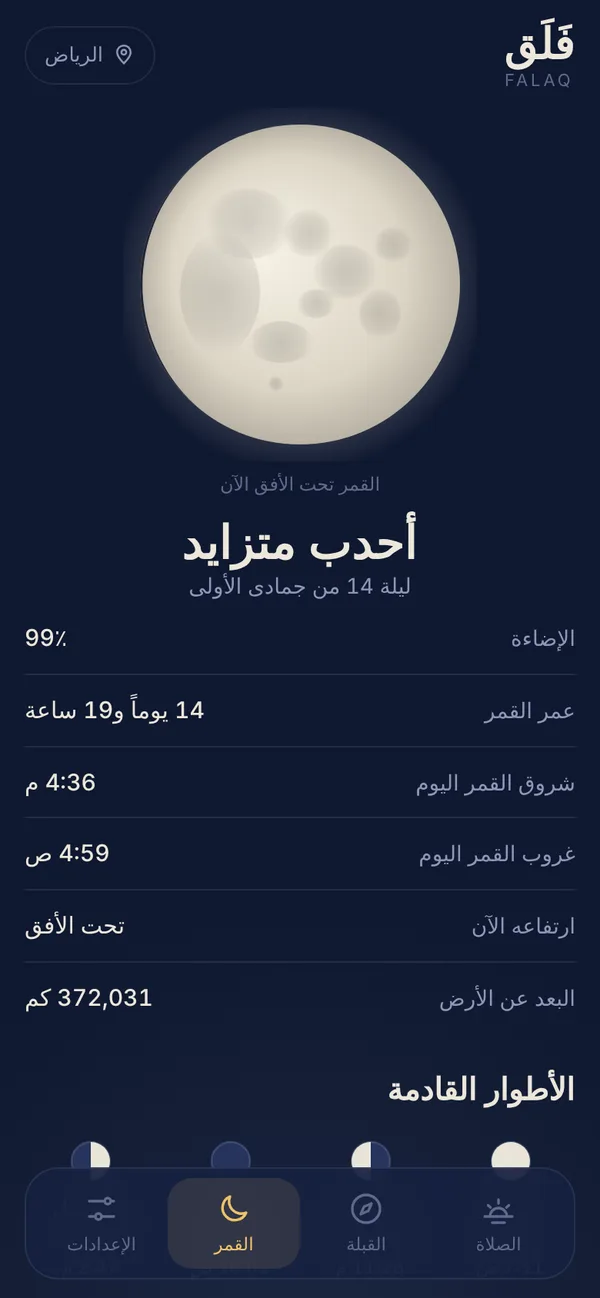
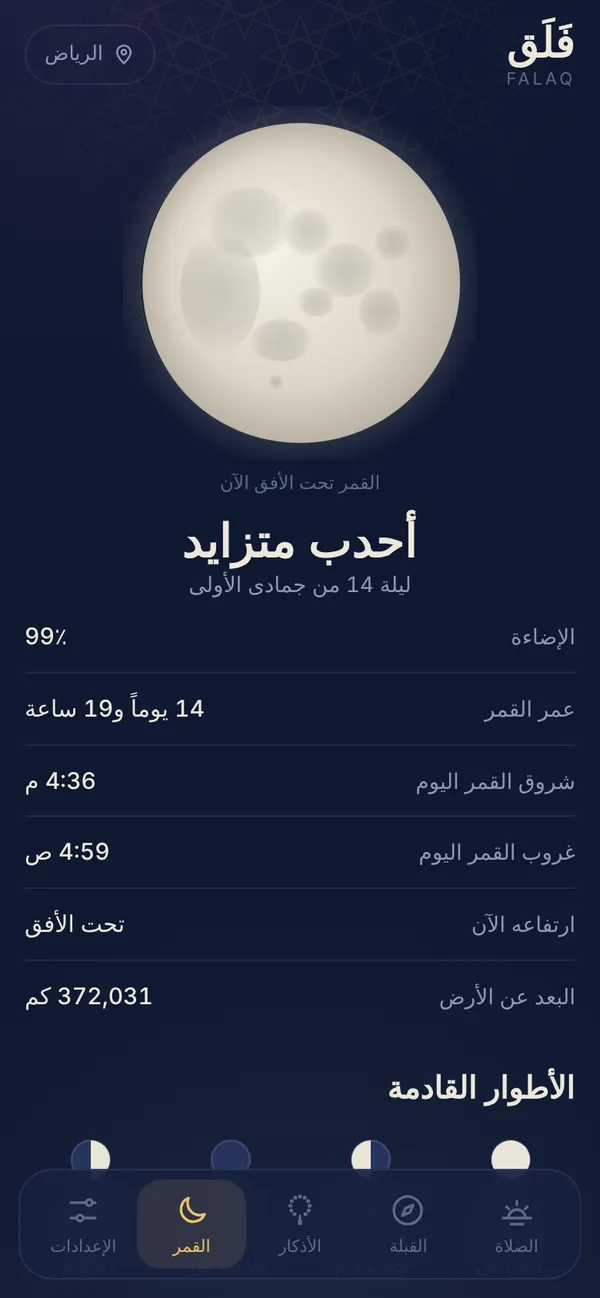
Add files via upload

diff --git a/index.html b/index.html
@@ -100,6 +100,7 @@
   .feat:hover{border-color:#3A3F48}
   .product.feat.rev{grid-template-columns:1.1fr 1fr;background:radial-gradient(ellipse 60% 80% at 80% 100%, rgba(240,194,106,.10), transparent 70%), var(--card)}
   .feat.rev .phones{order:-1}
+  .product.feat.khuta{background:radial-gradient(ellipse 60% 80% at 20% 100%, rgba(62,143,196,.14), transparent 70%), var(--card)}
   .feat .txt{display:flex;flex-direction:column;gap:10px;padding-bottom:44px}
   .feat .head{display:flex;align-items:center;gap:16px}
   .feat .appicon{width:76px;height:76px;border-radius:18px;box-shadow:0 8px 24px rgba(0,0,0,.35)}
@@ -267,14 +268,31 @@
               <div><h3 data-i18n="pr4_t">فلق</h3><div class="url">falaq.wamdarc.com</div></div>
               <span class="badge" data-i18n="live">متاح</span>
             </div>
-            <p data-i18n="pr4_d">مواقيت الصلاة والقبلة والقمر ومنازله في صفحة واحدة، تعمل بدون إنترنت.</p>
-            <ul class="chips"><li data-i18n="pr4_f1">مواقيت الصلاة</li><li data-i18n="pr4_f2">اتجاه القبلة</li><li data-i18n="pr4_f3">أطوار القمر ومنازله</li></ul>
+            <p data-i18n="pr4_d">مواقيت الصلاة والقبلة والأذكار والقمر ومنازله في صفحة واحدة، تعمل بدون إنترنت.</p>
+            <ul class="chips"><li data-i18n="pr4_f1">مواقيت الصلاة وتنبيهاتها</li><li data-i18n="pr4_f2">أذكار الصباح والمساء</li><li data-i18n="pr4_f3">أطوار القمر ومنازله</li></ul>
             <span class="btn btn-primary"><b data-i18n="pr4_open" style="font-weight:500">افتح فلق</b><span>↗</span></span>
           </div>
           <div class="phones" aria-hidden="true">
-            <div class="phone l"><img src="assets/falaq/qibla.webp" alt="" loading="lazy" width="600" height="1298"></div>
+            <div class="phone l"><img src="assets/falaq/azkar.webp" alt="" loading="lazy" width="600" height="1298"></div>
             <div class="phone r"><img src="assets/falaq/moon.webp" alt="" loading="lazy" width="600" height="1298"></div>
             <div class="phone m"><img src="assets/falaq/prayer.webp" alt="" loading="lazy" width="600" height="1298"></div>
+          </div>
+        </a>
+        <a class="product feat khuta" href="https://khuta.wamdarc.com" target="_blank" rel="noopener">
+          <div class="txt">
+            <div class="head">
+              <img class="appicon" src="assets/khuta/icon.webp" alt="" width="76" height="76">
+              <div><h3 data-i18n="pr5_t">خُطى</h3><div class="url">khuta.wamdarc.com</div></div>
+              <span class="badge" data-i18n="live">متاح</span>
+            </div>
+            <p data-i18n="pr5_d">سجل أسفارك على كرة أرضية تدورها بإصبعك، مع صفحة لكل رحلة وجواز بأختام كل دولة زرتها.</p>
+            <ul class="chips"><li data-i18n="pr5_f1">كرة أرضية تفاعلية</li><li data-i18n="pr5_f2">صور ويوميات لكل رحلة</li><li data-i18n="pr5_f3">جواز بأختام الدول</li></ul>
+            <span class="btn btn-primary"><b data-i18n="pr5_open" style="font-weight:500">افتح خُطى</b><span>↗</span></span>
+          </div>
+          <div class="phones" aria-hidden="true">
+            <div class="phone l"><img src="assets/khuta/trips.webp" alt="" loading="lazy" width="600" height="1298"></div>
+            <div class="phone r"><img src="assets/khuta/passport.webp" alt="" loading="lazy" width="600" height="1298"></div>
+            <div class="phone m"><img src="assets/khuta/map.webp" alt="" loading="lazy" width="600" height="1298"></div>
           </div>
         </a>
         <div class="product"><h3 data-i18n="pr2_t">المصاريف</h3><p data-i18n="pr2_d">تتبّع مصاريفك اليومية بلمسة من جوالك.</p><span class="badge soon" data-i18n="soon">قريبًا</span></div>
@@ -338,7 +356,7 @@
 
 <script>
 (function(){
-  var T = {"ar": {"title": "وَمْض آرك | WAMD ARC", "nav_about": "من نحن", "nav_services": "خدماتنا", "nav_products": "منتجاتنا", "nav_values": "قيمنا", "nav_contact": "تواصل معنا", "lang_btn": "EN", "tag": "الشرارة. المسار. المستقبل.", "tag2": "Spark. Path. Future.", "cta_contact": "تواصل معنا", "cta_services": "خدماتنا", "about_title": "من نحن؟", "about_text": "وَمْض آرك علامة تقنية سعودية طموحة، تبني حلولًا ذكية وتقنيات متقدمة تسهم في تشكيل مستقبل أكثر اتصالًا وذكاءً. نؤمن أن الابتكار يبدأ بشرارة، ثم يأخذ مساره إلى واقع ملموس.", "p1_t": "الشرارة", "p1_d": "كل منتج يبدأ بفكرة جريئة", "p2_t": "المسار", "p2_d": "خطوات واضحة من الفكرة إلى الإطلاق", "p3_t": "المستقبل", "p3_d": "منتجات تكبر وتستمر مع الناس", "services_title": "خدماتنا", "services_sub": "What we build", "s1_t": "تطبيقات الويب والجوال", "s1_s": "Web & Mobile Apps", "s1_d": "تطبيقات سريعة وبسيطة تشتغل على كل الأجهزة.", "s2_t": "لوحات البيانات", "s2_s": "Dashboards", "s2_d": "أرقامك واضحة في مكان واحد تساعدك تقرر.", "s3_t": "المتاجر الإلكترونية", "s3_s": "E-commerce", "s3_d": "متاجر أنيقة تبيع منتجاتك بسهولة.", "s4_t": "الأتمتة والذكاء الاصطناعي", "s4_s": "Automation & AI", "s4_d": "نوفّر وقتك بأتمتة المهام وأدوات ذكية.", "products_title": "منتجاتنا", "products_sub": "Built by WAMD ARC", "pr1_t": "سهم", "pr1_d": "بوصلة بسيطة تدلّك على وجهتك بسهم واحد، حتى بدون إنترنت.", "pr2_t": "المصاريف", "pr2_d": "تتبّع مصاريفك اليومية بلمسة من جوالك.", "pr3_t": "متتبع الأسعار", "pr3_d": "قارن أسعار مشترياتك وتابع تغيّرها.", "live": "متاح", "soon": "قريبًا", "pr1_open": "افتح سهم", "pr1_f1": "يعمل بدون إنترنت", "pr1_f2": "القبلة ومواقيت الصلاة", "pr1_f3": "احفظ مواقعك المفضلة", "pr4_t": "فلق", "pr4_d": "مواقيت الصلاة والقبلة والقمر ومنازله في صفحة واحدة، تعمل بدون إنترنت.", "pr4_open": "افتح فلق", "pr4_f1": "مواقيت الصلاة", "pr4_f2": "اتجاه القبلة", "pr4_f3": "أطوار القمر ومنازله", "pr1_alt1": "شاشة سهم الرئيسية", "pr1_alt2": "المواقع المفضلة", "pr1_alt3": "اتجاه القبلة", "values_title": "قيمنا", "values_sub": "Our values", "v1_t": "الابتكار", "v1_s": "Innovation", "v1_d": "تحويل الأفكار إلى حلول.", "v2_t": "التميّز", "v2_s": "Excellence", "v2_d": "الجودة في كل تفصيلة.", "v3_t": "التكامل", "v3_s": "Integration", "v3_d": "ربط التقنية بالإنسان.", "v4_t": "الاستدامة", "v4_s": "Sustainability", "v4_d": "بناء مستقبل أفضل.", "contact_title": "تواصل معنا", "contact_sub": "Let’s build your next spark", "contact_lead": "عندك فكرة تبي لها مسار؟ راسلنا ونرد عليك في أقرب وقت.", "email_lbl": "البريد", "x_lbl": "إكس", "ig_lbl": "إنستقرام", "form_title": "أرسل لنا رسالة", "f_name": "الاسم", "f_email": "بريدك الإلكتروني", "f_msg": "رسالتك", "ph_name": "اسمك الكريم", "ph_email": "name@example.com", "ph_msg": "اكتب رسالتك هنا…", "f_q": "سؤال تحقق: كم ناتج {a} + {b}؟", "ph_q": "اكتب الناتج بالأرقام", "f_send": "إرسال", "err_q": "الناتج غير صحيح، حاول مرة ثانية.", "f_note": "محمي من الرسائل المزعجة. بعد الإرسال قد يُطلب منك تأكيد أنك لست روبوتًا.", "subject": "رسالة جديدة من موقع wamdarc.com", "rights": "© {y} وَمْض آرك. جميع الحقوق محفوظة."}, "en": {"title": "WAMD ARC | وَمْض آرك", "nav_about": "About", "nav_services": "Services", "nav_products": "Products", "nav_values": "Values", "nav_contact": "Contact", "lang_btn": "عربي", "tag": "Spark. Path. Future.", "tag2": "الشرارة. المسار. المستقبل.", "cta_contact": "Contact us", "cta_services": "Our services", "about_title": "Who we are", "about_text": "WAMD ARC is an ambitious Saudi tech brand, building intelligent solutions and advanced technologies that shape a more connected and intelligent future. We believe innovation starts with a spark — and then takes its path to a tangible reality.", "p1_t": "Spark", "p1_d": "Every product starts with a bold idea", "p2_t": "Path", "p2_d": "Clear steps from idea to launch", "p3_t": "Future", "p3_d": "Products that grow with people", "services_title": "Services", "services_sub": "", "s1_t": "Web & Mobile Apps", "s1_s": "", "s1_d": "Fast, simple apps that work on every device.", "s2_t": "Dashboards", "s2_s": "", "s2_d": "All your numbers, clear and in one place.", "s3_t": "E-commerce", "s3_s": "", "s3_d": "Elegant stores that make selling easy.", "s4_t": "Automation & AI", "s4_s": "", "s4_d": "Save time with automation and smart tools.", "products_title": "Products", "products_sub": "", "pr1_t": "Sahm", "pr1_d": "A simple compass that points you to your destination with one arrow — even offline.", "pr2_t": "Expenses", "pr2_d": "Track your daily spending with a tap.", "pr3_t": "Price Tracker", "pr3_d": "Compare prices and follow how they change.", "live": "LIVE", "soon": "COMING SOON", "pr1_open": "Open Sahm", "pr1_f1": "Works offline", "pr1_f2": "Qibla & prayer times", "pr1_f3": "Save your places", "pr4_t": "Falaq", "pr4_d": "Prayer times, Qibla, and the moon with its mansions — in one page that works offline.", "pr4_open": "Open Falaq", "pr4_f1": "Prayer times", "pr4_f2": "Qibla direction", "pr4_f3": "Moon phases & mansions", "pr1_alt1": "Sahm home screen", "pr1_alt2": "Saved places", "pr1_alt3": "Qibla direction", "values_title": "Our values", "values_sub": "", "v1_t": "Innovation", "v1_s": "", "v1_d": "Turning ideas into solutions.", "v2_t": "Excellence", "v2_s": "", "v2_d": "Quality in every detail.", "v3_t": "Integration", "v3_s": "", "v3_d": "Connecting technology and people.", "v4_t": "Sustainability", "v4_s": "", "v4_d": "Building a better tomorrow.", "contact_title": "Contact us", "contact_sub": "", "contact_lead": "Have an idea that needs a path? Send us a message and we’ll get back to you soon.", "email_lbl": "Email", "x_lbl": "X", "ig_lbl": "Instagram", "form_title": "Send us a message", "f_name": "Name", "f_email": "Your email", "f_msg": "Message", "ph_name": "Your name", "ph_email": "name@example.com", "ph_msg": "Write your message…", "f_q": "Quick check: what is {a} + {b}?", "ph_q": "Type the answer in digits", "f_send": "Send", "err_q": "That answer isn’t right — please try again.", "f_note": "Protected from spam. After sending you may be asked to confirm you’re not a robot.", "subject": "New message from wamdarc.com", "rights": "© {y} WAMD ARC. All rights reserved."}};
+  var T = {"ar": {"title": "وَمْض آرك | WAMD ARC", "nav_about": "من نحن", "nav_services": "خدماتنا", "nav_products": "منتجاتنا", "nav_values": "قيمنا", "nav_contact": "تواصل معنا", "lang_btn": "EN", "tag": "الشرارة. المسار. المستقبل.", "tag2": "Spark. Path. Future.", "cta_contact": "تواصل معنا", "cta_services": "خدماتنا", "about_title": "من نحن؟", "about_text": "وَمْض آرك علامة تقنية سعودية طموحة، تبني حلولًا ذكية وتقنيات متقدمة تسهم في تشكيل مستقبل أكثر اتصالًا وذكاءً. نؤمن أن الابتكار يبدأ بشرارة، ثم يأخذ مساره إلى واقع ملموس.", "p1_t": "الشرارة", "p1_d": "كل منتج يبدأ بفكرة جريئة", "p2_t": "المسار", "p2_d": "خطوات واضحة من الفكرة إلى الإطلاق", "p3_t": "المستقبل", "p3_d": "منتجات تكبر وتستمر مع الناس", "services_title": "خدماتنا", "services_sub": "What we build", "s1_t": "تطبيقات الويب والجوال", "s1_s": "Web & Mobile Apps", "s1_d": "تطبيقات سريعة وبسيطة تشتغل على كل الأجهزة.", "s2_t": "لوحات البيانات", "s2_s": "Dashboards", "s2_d": "أرقامك واضحة في مكان واحد تساعدك تقرر.", "s3_t": "المتاجر الإلكترونية", "s3_s": "E-commerce", "s3_d": "متاجر أنيقة تبيع منتجاتك بسهولة.", "s4_t": "الأتمتة والذكاء الاصطناعي", "s4_s": "Automation & AI", "s4_d": "نوفّر وقتك بأتمتة المهام وأدوات ذكية.", "products_title": "منتجاتنا", "products_sub": "Built by WAMD ARC", "pr1_t": "سهم", "pr1_d": "بوصلة بسيطة تدلّك على وجهتك بسهم واحد، حتى بدون إنترنت.", "pr2_t": "المصاريف", "pr2_d": "تتبّع مصاريفك اليومية بلمسة من جوالك.", "pr3_t": "متتبع الأسعار", "pr3_d": "قارن أسعار مشترياتك وتابع تغيّرها.", "live": "متاح", "soon": "قريبًا", "pr1_open": "افتح سهم", "pr1_f1": "يعمل بدون إنترنت", "pr1_f2": "القبلة ومواقيت الصلاة", "pr1_f3": "احفظ مواقعك المفضلة", "pr4_t": "فلق", "pr4_d": "مواقيت الصلاة والقبلة والأذكار والقمر ومنازله في صفحة واحدة، تعمل بدون إنترنت.", "pr4_open": "افتح فلق", "pr4_f1": "مواقيت الصلاة وتنبيهاتها", "pr4_f2": "أذكار الصباح والمساء", "pr4_f3": "أطوار القمر ومنازله", "pr5_t": "خُطى", "pr5_d": "سجل أسفارك على كرة أرضية تدورها بإصبعك، مع صفحة لكل رحلة وجواز بأختام كل دولة زرتها.", "pr5_open": "افتح خُطى", "pr5_f1": "كرة أرضية تفاعلية", "pr5_f2": "صور ويوميات لكل رحلة", "pr5_f3": "جواز بأختام الدول", "pr1_alt1": "شاشة سهم الرئيسية", "pr1_alt2": "المواقع المفضلة", "pr1_alt3": "اتجاه القبلة", "values_title": "قيمنا", "values_sub": "Our values", "v1_t": "الابتكار", "v1_s": "Innovation", "v1_d": "تحويل الأفكار إلى حلول.", "v2_t": "التميّز", "v2_s": "Excellence", "v2_d": "الجودة في كل تفصيلة.", "v3_t": "التكامل", "v3_s": "Integration", "v3_d": "ربط التقنية بالإنسان.", "v4_t": "الاستدامة", "v4_s": "Sustainability", "v4_d": "بناء مستقبل أفضل.", "contact_title": "تواصل معنا", "contact_sub": "Let’s build your next spark", "contact_lead": "عندك فكرة تبي لها مسار؟ راسلنا ونرد عليك في أقرب وقت.", "email_lbl": "البريد", "x_lbl": "إكس", "ig_lbl": "إنستقرام", "form_title": "أرسل لنا رسالة", "f_name": "الاسم", "f_email": "بريدك الإلكتروني", "f_msg": "رسالتك", "ph_name": "اسمك الكريم", "ph_email": "name@example.com", "ph_msg": "اكتب رسالتك هنا…", "f_q": "سؤال تحقق: كم ناتج {a} + {b}؟", "ph_q": "اكتب الناتج بالأرقام", "f_send": "إرسال", "err_q": "الناتج غير صحيح، حاول مرة ثانية.", "f_note": "محمي من الرسائل المزعجة. بعد الإرسال قد يُطلب منك تأكيد أنك لست روبوتًا.", "subject": "رسالة جديدة من موقع wamdarc.com", "rights": "© {y} وَمْض آرك. جميع الحقوق محفوظة."}, "en": {"title": "WAMD ARC | وَمْض آرك", "nav_about": "About", "nav_services": "Services", "nav_products": "Products", "nav_values": "Values", "nav_contact": "Contact", "lang_btn": "عربي", "tag": "Spark. Path. Future.", "tag2": "الشرارة. المسار. المستقبل.", "cta_contact": "Contact us", "cta_services": "Our services", "about_title": "Who we are", "about_text": "WAMD ARC is an ambitious Saudi tech brand, building intelligent solutions and advanced technologies that shape a more connected and intelligent future. We believe innovation starts with a spark — and then takes its path to a tangible reality.", "p1_t": "Spark", "p1_d": "Every product starts with a bold idea", "p2_t": "Path", "p2_d": "Clear steps from idea to launch", "p3_t": "Future", "p3_d": "Products that grow with people", "services_title": "Services", "services_sub": "", "s1_t": "Web & Mobile Apps", "s1_s": "", "s1_d": "Fast, simple apps that work on every device.", "s2_t": "Dashboards", "s2_s": "", "s2_d": "All your numbers, clear and in one place.", "s3_t": "E-commerce", "s3_s": "", "s3_d": "Elegant stores that make selling easy.", "s4_t": "Automation & AI", "s4_s": "", "s4_d": "Save time with automation and smart tools.", "products_title": "Products", "products_sub": "", "pr1_t": "Sahm", "pr1_d": "A simple compass that points you to your destination with one arrow — even offline.", "pr2_t": "Expenses", "pr2_d": "Track your daily spending with a tap.", "pr3_t": "Price Tracker", "pr3_d": "Compare prices and follow how they change.", "live": "LIVE", "soon": "COMING SOON", "pr1_open": "Open Sahm", "pr1_f1": "Works offline", "pr1_f2": "Qibla & prayer times", "pr1_f3": "Save your places", "pr4_t": "Falaq", "pr4_d": "Prayer times, Qibla, adhkar and the moon with its mansions — in one page that works offline.", "pr4_open": "Open Falaq", "pr4_f1": "Prayer times & alerts", "pr4_f2": "Morning & evening adhkar", "pr4_f3": "Moon phases & mansions", "pr5_t": "Khuta", "pr5_d": "Log your travels on a globe you spin with your finger — a page for every trip and a passport stamped with every country you visit.", "pr5_open": "Open Khuta", "pr5_f1": "Interactive 3D globe", "pr5_f2": "Photos & journal per trip", "pr5_f3": "Passport stamps", "pr1_alt1": "Sahm home screen", "pr1_alt2": "Saved places", "pr1_alt3": "Qibla direction", "values_title": "Our values", "values_sub": "", "v1_t": "Innovation", "v1_s": "", "v1_d": "Turning ideas into solutions.", "v2_t": "Excellence", "v2_s": "", "v2_d": "Quality in every detail.", "v3_t": "Integration", "v3_s": "", "v3_d": "Connecting technology and people.", "v4_t": "Sustainability", "v4_s": "", "v4_d": "Building a better tomorrow.", "contact_title": "Contact us", "contact_sub": "", "contact_lead": "Have an idea that needs a path? Send us a message and we’ll get back to you soon.", "email_lbl": "Email", "x_lbl": "X", "ig_lbl": "Instagram", "form_title": "Send us a message", "f_name": "Name", "f_email": "Your email", "f_msg": "Message", "ph_name": "Your name", "ph_email": "name@example.com", "ph_msg": "Write your message…", "f_q": "Quick check: what is {a} + {b}?", "ph_q": "Type the answer in digits", "f_send": "Send", "err_q": "That answer isn’t right — please try again.", "f_note": "Protected from spam. After sending you may be asked to confirm you’re not a robot.", "subject": "New message from wamdarc.com", "rights": "© {y} WAMD ARC. All rights reserved."}};
   var a = 2 + Math.floor(Math.random()*8), b = 1 + Math.floor(Math.random()*9);
   var lang = 'ar';
   function fmt(s, o){ return s.replace(/\{(\w)\}/g, function(_, k){ return o[k]; }); }

diff --git a/README.md b/README.md
@@ -1,9 +1,9 @@
-# wamdarc.com — النسخة الثالثة (عربي + إنجليزي، نموذج تواصل، وبطاقتا سهم وفلق)
+# wamdarc.com — النسخة الثالثة (عربي + إنجليزي، نموذج تواصل، وبطاقات سهم وفلق وخُطى)
 
 ## طريقة التحديث على GitHub
 ارفع **محتويات** هذا المجلد على نفس المستودع واستبدل الموجود:
 - `index.html` و`thanks.html` (صفحة الشكر بعد الإرسال — جديدة)
-- مجلد `assets/` كامل (فيه مجلدين `assets/sahm/` و`assets/falaq/` للأيقونات والصور)
+- مجلد `assets/` كامل (فيه `assets/sahm/` و`assets/falaq/` و`assets/khuta/` للأيقونات والصور)
 - `CNAME` (لا تحذفه)
 
 ## تفعيل نموذج التواصل (مرة وحدة فقط)
@@ -26,8 +26,9 @@
 زر EN / عربي في الأعلى، والموقع يتذكر اختيار الزائر.
 روابط مباشرة: wamdarc.com/?lang=en و wamdarc.com/?lang=ar
 
-## بطاقتا سهم وفلق
+## بطاقات التطبيقات
 في قسم «منتجاتنا» كل بطاقة رابط كامل يفتح التطبيق في تبويب جديد:
 - سهم: https://sahm.wamdarc.com — الصور في `assets/sahm/` (main / list / qibla .webp)
-- فلق: https://falaq.wamdarc.com — الصور في `assets/falaq/` (prayer / qibla / moon .webp)
+- فلق: https://falaq.wamdarc.com — الصور في `assets/falaq/` (prayer / azkar / moon .webp)
+- خُطى: https://khuta.wamdarc.com — الصور في `assets/khuta/` (map / trips / passport .webp)
 لتغيير أي صورة استبدلها بنفس الاسم.
